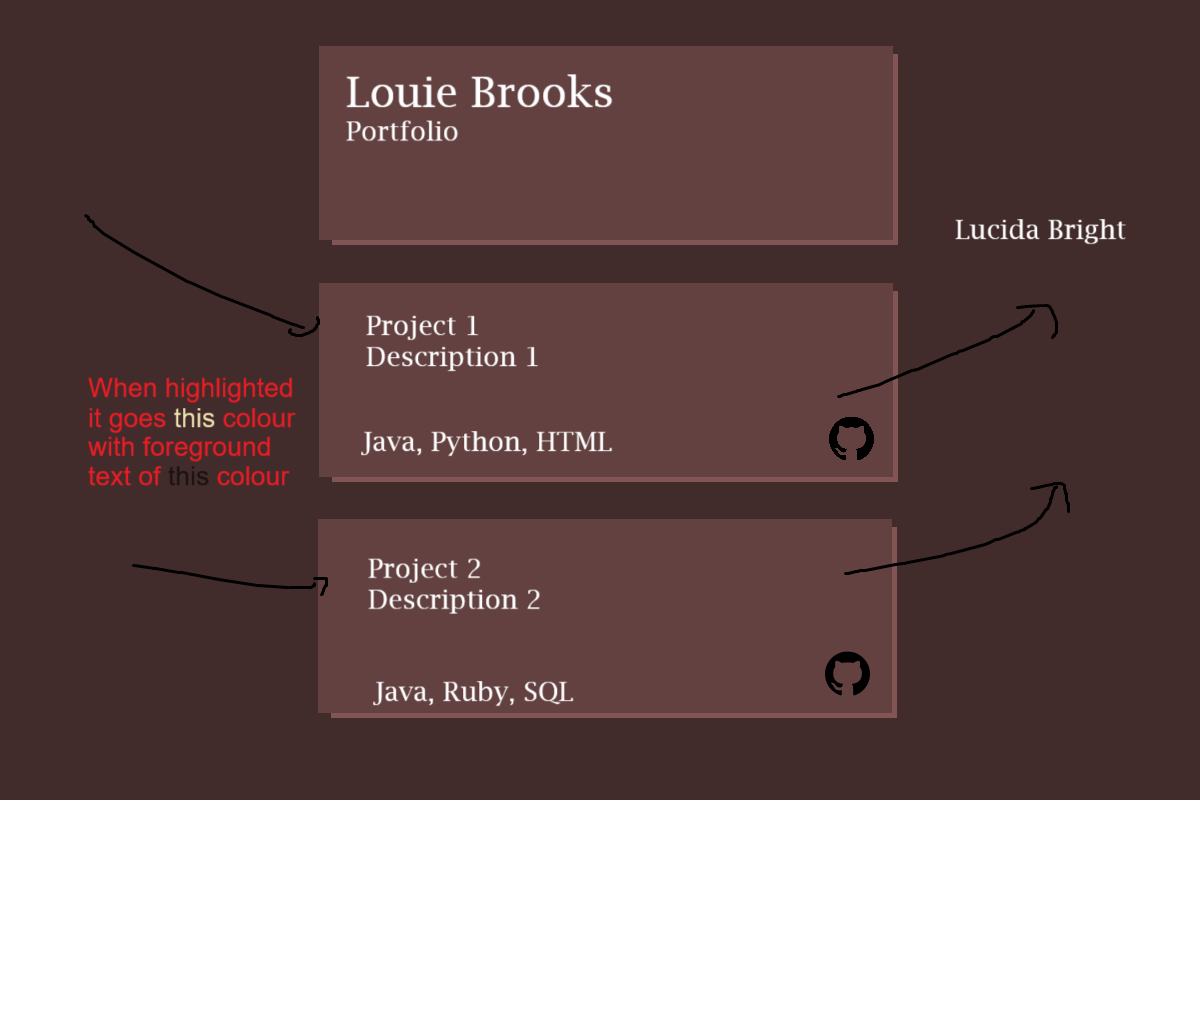
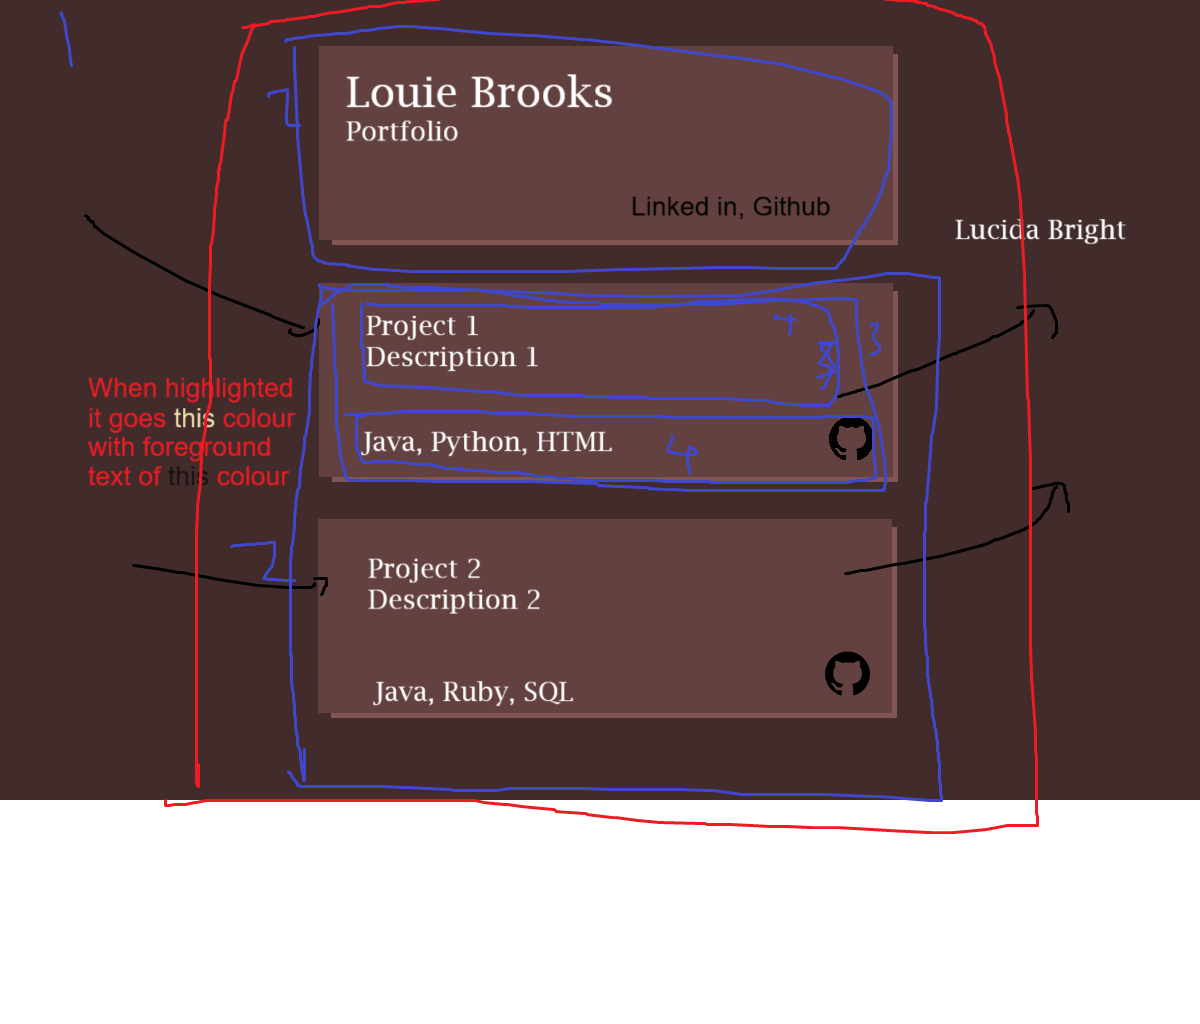
setting up layout for the website

diff --git a/index.html b/index.html
@@ -1,18 +1,46 @@
 <!DOCTYPE html>
 <html>
+
 <head>
     <title>Project Content Page</title>
 </head>
+
 <body>
-    <h1>Project Contents Page</h1>
-    <h2>By: Louie Brooks</h2>
-    <h2>Started: 06.02.23</h2>
-    <br>
-    <h3>Repo Links</h3>
-    <ul>
-        <li><a href="https://github.com/Eilou/A-Level-Computer-Science-Coursework">
-            A-Level Computer Science Coursework</a></li>
-        <li><a href="https://github.com/Eilou/Searching-and-Sorting-Algorithms-in-Different-Languages">Different Searching and Sorting Algorithms in Different Sorting Algorithms</a></li>
-    </ul>
+    <main>
+        <div id="content-wrapper">
+
+            <div id="title-section" class="detail-box">
+                <h1>Louie Brooks</h1>
+                <h2>Portfolio</h2>
+            </div>
+            
+            <div id="repo-container">
+            
+                <div id="repo-1-container" class="detail-box">
+                    <div class="repo-headers-container">
+                        <h2>Project 1</h2>
+                        <p>Description 1</p>
+                    </div>
+                    <div class="extra-info-container">
+                        <h2>Java, Python, HTML</h2>
+                        <img src="GitHub_Invertocat_Logo.png" height="1rem" width="1rem">
+                    </div>
+                </div>
+            
+                <div id="repo-2-container" class="detail-box">
+                    <div class="repo-headers-container">
+                        <h2>Project 2</h2>
+                        <p>Description 2</p>
+                    </div>
+                    <div class="extra-info-container">
+                        <h2>Java, Ruby, SQL</h2>
+                        <img src="GitHub_Invertocat_Logo.png" height="1rem" width="1rem">
+                    </div>
+                </div>
+
+            </div>
+        </div>
+    </main>
 </body>
+
 </html>
